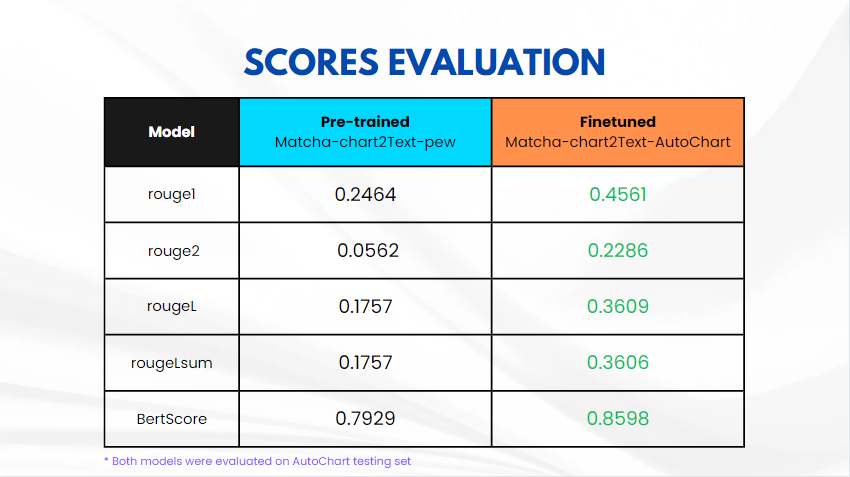
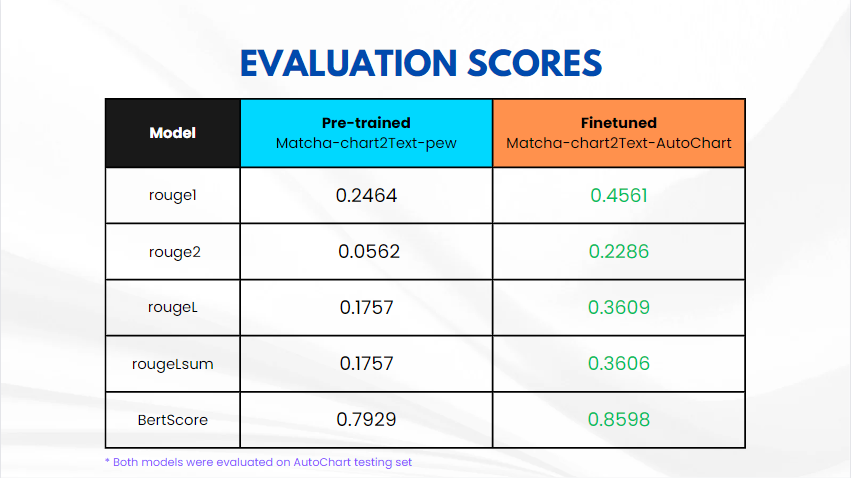
Update

diff --git a/README.md b/README.md
@@ -272,7 +272,7 @@ Our comparison between the pre-trained and fine-tuned models yielded interesting
 
 Conversely, the fine-tuned chart summarization model identified all errors within the charts. However, this seemingly thorough analysis resulted in issues for the fine-tuned QA model, leading to entirely irrelevant answers. These findings suggest that the fine-tuning process might have overshot the mark, becoming overly sensitive to chart complexities and potentially misinterpreting the data.
 
-### 4.1. Score Evaluation
+### 4.1. Evaluation Score
 
 ![ScoreEvaluation](./figures/ScoreEvaluation.png)
 1. rouge1:
@@ -324,5 +324,10 @@ If the hypothesis is not true, it would imply that fine-tuning the model with th
 1. It is unclear whether the underfitting is due to a small training set or insufficient training epochs.
 2. Evaluation metrics such as ROUGE and BERTScore may not effectively capture the model's performance, as the worse-performing model obtained higher scores.
 3. The complexity and size of the models result in long answer generation times, which are dependent on the local host's hardware. This suggests the need to create model endpoints to improve efficiency.
+
+### 5.5. Future Work
+**1. Finetune the model:** Finetuned Model using better techniques such as LoRA or QLoRA and increase number of epochs to allow model convergence.
+
+**2. Deploying an AI model endpoint:** Upload finetuned model to HuggingFace/AWS Sagemaker to allow other users to experiment or deploy our model for their own purposes.
 
 
